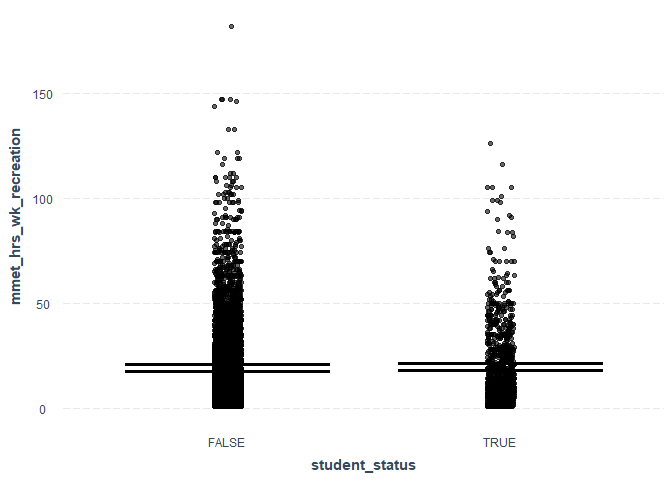
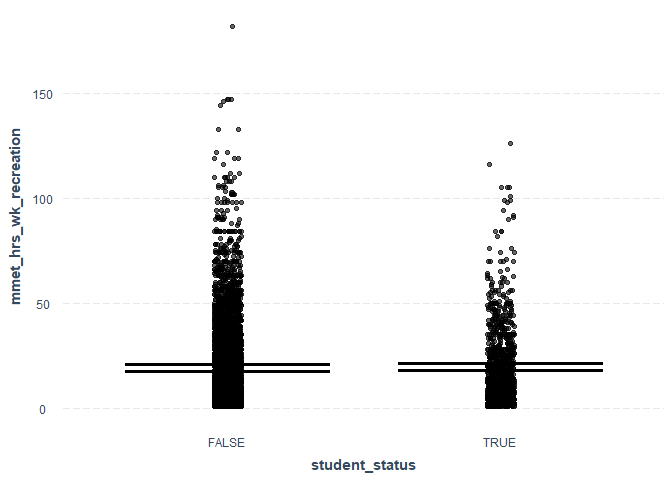
updated output directory for sportPAmodel.csv

diff --git a/jibe-melbourne-physical-activity/jibe-melbourne-physical-activity.md b/jibe-melbourne-physical-activity/jibe-melbourne-physical-activity.md
@@ -975,20 +975,31 @@ identified for an association between student status and recreational
 activity levels.
 
 ``` r
-
-
 # Extract coefficients from the negative binomial model
 sportPAmodel <- data.frame(
   Zero_Model = m.mMETs_recreational$zeroModel$coefficients,
   Neg_Binom_Model = m.mMETs_recreational$neg_binom_over0$coefficients
 )
 print(sportPAmodel)
+##                             Zero_Model Neg_Binom_Model
+## (Intercept)                0.044666911      2.79802821
+## femaleTRUE                -0.004902267     -0.23810983
+## age_groupage_group_25_34   0.053567493     -0.05021519
+## age_groupage_group_35_44   0.205214777     -0.17257809
+## age_groupage_group_45_54   0.283538562     -0.15718689
+## age_groupage_group_55_64   0.330456455     -0.16057669
+## age_groupage_group_65_74   0.225089953     -0.17960424
+## age_groupage_group_over75  0.772364276     -0.45155329
+## is_employedTRUE           -0.272948987      0.10850383
+## student_statusTRUE        -0.349519395      0.01167917
+## irsd_sa1                  -0.125746061      0.02685566
 
 
-output_file <- "../input/health/sportPAmodel_raw_hurdle_model.csv"
+output_file <- "../../input/health/sportPAmodel_raw_hurdle_model.csv"
 dir.create(dirname(output_file), recursive = TRUE, showWarnings = FALSE)
-write.csv(sportPAmodel, file = output_file, row.names = FALSE)
+write.csv(sportPAmodel, file = output_file, row.names = TRUE)
 cat("Recreational mMET hours/week (Sport/PA model) coefficients saved to:", output_file, "\n")
+## Recreational mMET hours/week (Sport/PA model) coefficients saved to: ../../input/health/sportPAmodel_raw_hurdle_model.csv
 ```
 
 ### Evaluating model fit
@@ -1104,7 +1115,7 @@ mmets_prediction=MonteCarlo(m.mMETs_recreational$zeroModel,data)
 table(mmets_prediction$zeroPrediction)
 ## 
 ##   FALSE    TRUE 
-## 2015344 1178469
+## 2013919 1179894
 ```
 
 #### Prediction of amount of recreational physical activity
@@ -1238,9 +1249,9 @@ knitr::kable(
 | NHS (recreation) | Men | 7575 | 11.47 | 17.20 | 0 | 0.00 | 4.00 | 16.00 | 147.00 |
 | NHS (recreation) | Women | 8784 | 8.82 | 13.72 | 0 | 0.00 | 4.00 | 12.00 | 182.00 |
 | NHS (recreation) | Overall | 16359 | 10.05 | 15.49 | 0 | 0.00 | 4.00 | 14.00 | 182.00 |
-| Synthetic population (recreation) | Men | 1542991 | 10.94 | 8.50 | 0 | 0.00 | 15.98 | 17.85 | 21.72 |
+| Synthetic population (recreation) | Men | 1542991 | 10.92 | 8.51 | 0 | 0.00 | 15.80 | 17.85 | 21.72 |
 | Synthetic population (recreation) | Women | 1650822 | 8.57 | 6.68 | 0 | 0.00 | 12.45 | 14.03 | 17.12 |
-| Synthetic population (recreation) | Overall | 3193813 | 9.71 | 7.71 | 0 | 0.00 | 13.29 | 16.09 | 21.72 |
+| Synthetic population (recreation) | Overall | 3193813 | 9.70 | 7.71 | 0 | 0.00 | 13.29 | 16.09 | 21.72 |
 
 Marginal MET hours per week
 
